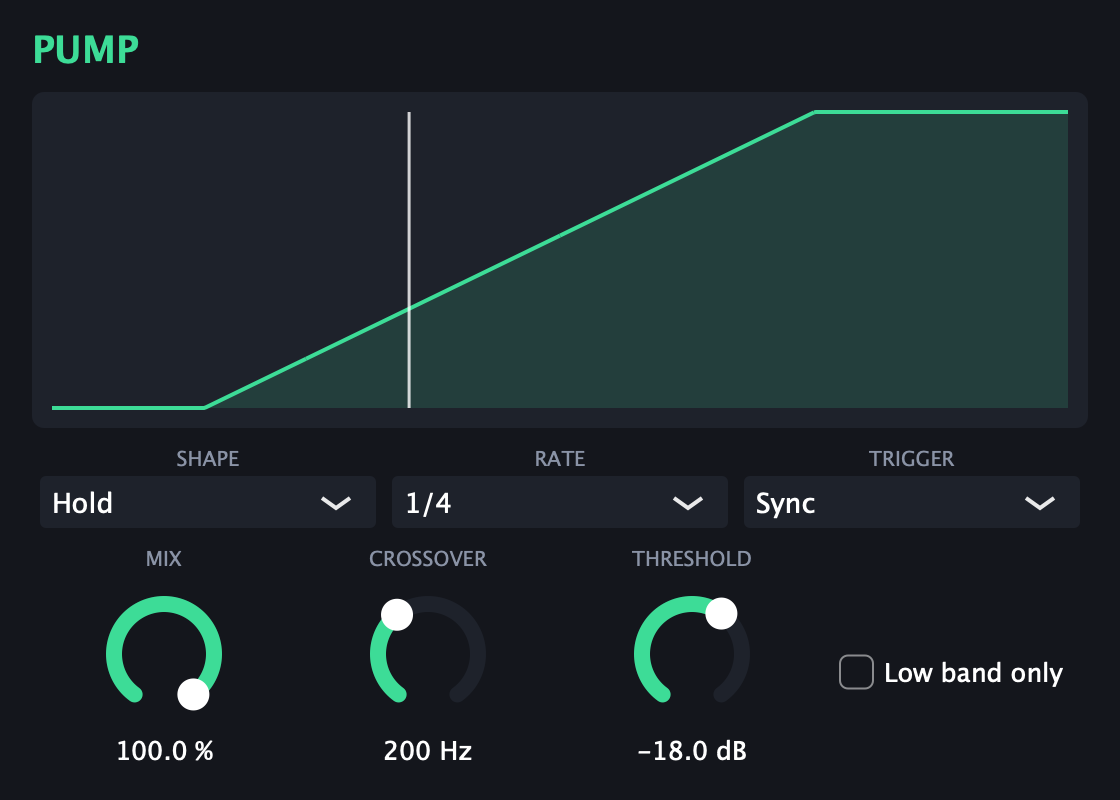
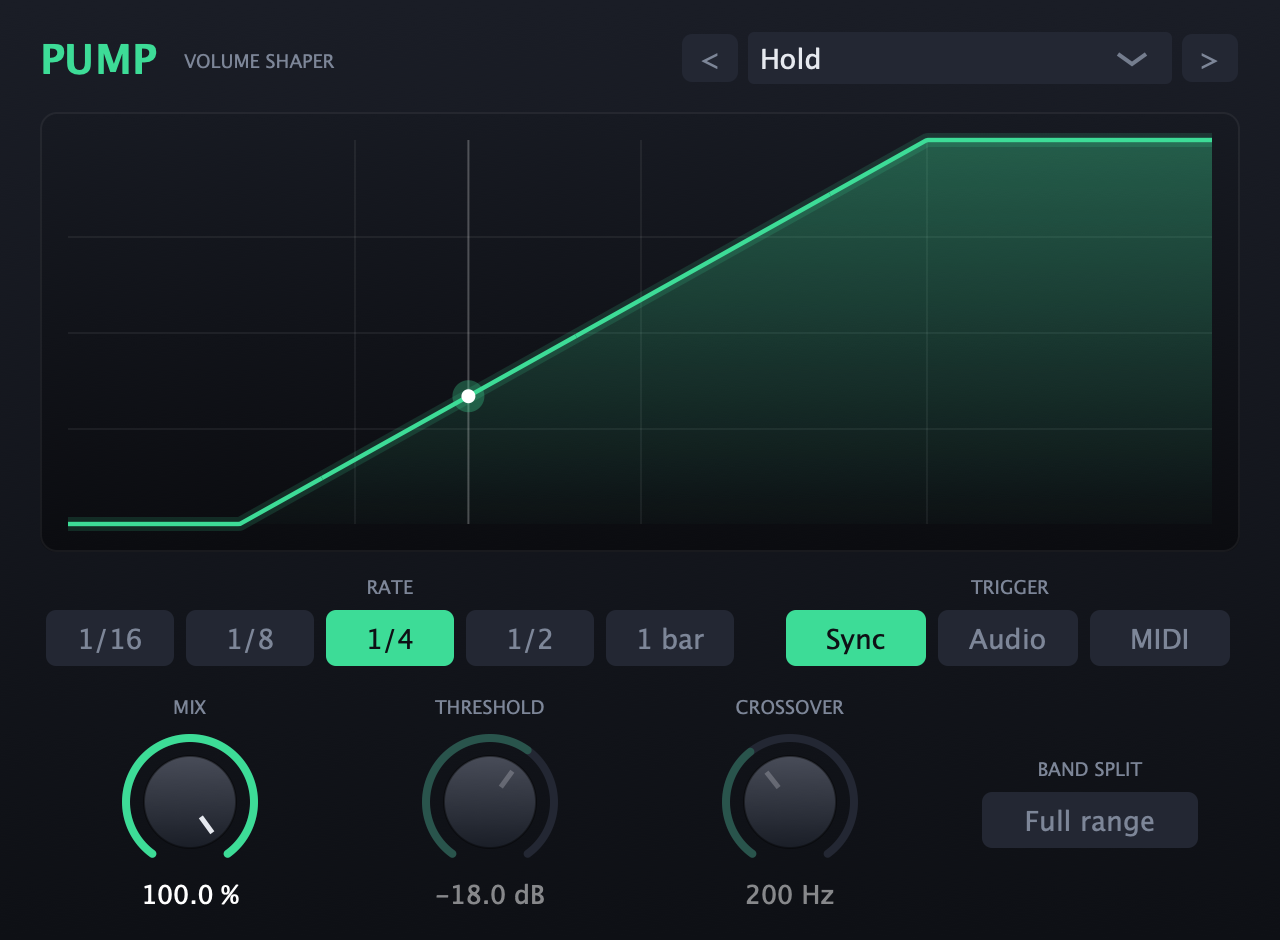
Redesign interface: custom knobs, gridded display, segmented controls, shape browser

diff --git a/Source/PluginProcessor.cpp b/Source/PluginProcessor.cpp
@@ -1,36 +1,133 @@
 #include "PumpProcessor.h"
 
+namespace
+{
+const juce::Colour bgTop { 0xff1a1d26 }, bgBottom { 0xff0e1015 }, panel { 0xff232733 }, panelHover { 0xff2d3240 },
+    screenTop { 0xff171a22 }, screenBottom { 0xff0b0c10 }, accent { 0xff3ddc97 }, text { 0xffe6e9ef }, dim { 0xff7d8698 };
+
+struct PumpLook : juce::LookAndFeel_V4
+{
+    PumpLook()
+    {
+        setColour (juce::Slider::textBoxTextColourId, text);
+        setColour (juce::Slider::textBoxOutlineColourId, juce::Colours::transparentBlack);
+        setColour (juce::ComboBox::backgroundColourId, panel);
+        setColour (juce::ComboBox::outlineColourId, juce::Colours::transparentBlack);
+        setColour (juce::ComboBox::textColourId, text);
+        setColour (juce::ComboBox::arrowColourId, dim);
+        setColour (juce::PopupMenu::backgroundColourId, panel);
+        setColour (juce::PopupMenu::textColourId, text);
+        setColour (juce::PopupMenu::highlightedBackgroundColourId, accent);
+        setColour (juce::PopupMenu::highlightedTextColourId, bgBottom);
+        setColour (juce::TextButton::textColourOffId, dim);
+        setColour (juce::TextButton::textColourOnId, bgBottom);
+    }
+
+    void drawRotarySlider (juce::Graphics& g, int x, int y, int width, int height, float position,
+                           float startAngle, float endAngle, juce::Slider& slider) override
+    {
+        const auto bounds = juce::Rectangle<int> (x, y, width, height).toFloat().reduced (5.0f);
+        const float radius = juce::jmin (bounds.getWidth(), bounds.getHeight()) / 2.0f;
+        const auto centre = bounds.getCentre();
+        const float angle = startAngle + position * (endAngle - startAngle);
+        const float alpha = slider.isEnabled() ? 1.0f : 0.25f;
+        const juce::PathStrokeType stroke (4.0f, juce::PathStrokeType::curved, juce::PathStrokeType::rounded);
+
+        juce::Path track, value;
+        track.addCentredArc (centre.x, centre.y, radius, radius, 0.0f, startAngle, endAngle, true);
+        value.addCentredArc (centre.x, centre.y, radius, radius, 0.0f, startAngle, angle, true);
+        g.setColour (panel);
+        g.strokePath (track, stroke);
+        g.setColour (accent.withAlpha (alpha));
+        g.strokePath (value, stroke);
+
+        const float knob = radius - 9.0f;
+        g.setGradientFill ({ panelHover.brighter (0.15f), centre.x, centre.y - knob, panel.darker (0.3f), centre.x, centre.y + knob, false });
+        g.fillEllipse (juce::Rectangle<float> (knob * 2.0f, knob * 2.0f).withCentre (centre));
+        g.setColour (juce::Colours::black.withAlpha (0.4f));
+        g.drawEllipse (juce::Rectangle<float> (knob * 2.0f, knob * 2.0f).withCentre (centre), 1.0f);
+
+        g.setColour (text.withAlpha (alpha));
+        g.drawLine ({ centre.getPointOnCircumference (knob * 0.4f, angle), centre.getPointOnCircumference (knob - 4.0f, angle) }, 2.5f);
+    }
+
+    void drawButtonBackground (juce::Graphics& g, juce::Button& button, const juce::Colour&, bool over, bool) override
+    {
+        g.setColour (button.getToggleState() ? accent : over ? panelHover : panel);
+        g.fillRoundedRectangle (button.getLocalBounds().toFloat().reduced (1.0f), 5.0f);
+    }
+};
+
+// A row of buttons bound to a choice parameter; exactly one is lit.
+class Segmented : public juce::Component
+{
+public:
+    explicit Segmented (juce::RangedAudioParameter& param)
+        : attachment (param, [this] (float value)
+                      {
+                          if (auto* b = buttons[(int) value])
+                              b->setToggleState (true, juce::dontSendNotification);
+                      })
+    {
+        const auto names = param.getAllValueStrings();
+        for (int i = 0; i < names.size(); ++i)
+        {
+            auto* b = buttons.add (new juce::TextButton (names[i]));
+            b->setClickingTogglesState (true);
+            b->setRadioGroupId (1);
+            b->onClick = [this, i, b]
+            {
+                if (b->getToggleState())
+                    attachment.setValueAsCompleteGesture ((float) i);
+            };
+            addAndMakeVisible (b);
+        }
+        attachment.sendInitialUpdate();
+    }
+
+    void resized() override
+    {
+        auto area = getLocalBounds();
+        const int width = area.getWidth() / juce::jmax (1, buttons.size());
+        for (auto* b : buttons)
+            b->setBounds (area.removeFromLeft (width).reduced (2, 0));
+    }
+
+private:
+    juce::OwnedArray<juce::TextButton> buttons;
+    juce::ParameterAttachment attachment; // after buttons: its callback uses them
+};
+}
+
 //==============================================================================
 class PumpEditor : public juce::AudioProcessorEditor, private juce::Timer
 {
     using APVTS = juce::AudioProcessorValueTreeState;
-    const juce::Colour bg { 0xff14161c }, panel { 0xff1e222b }, accent { 0xff3ddc97 }, dim { 0xff8a93a6 };
 
 public:
-    explicit PumpEditor (PumpProcessor& p) : AudioProcessorEditor (p), proc (p)
+    explicit PumpEditor (PumpProcessor& p)
+        : AudioProcessorEditor (p), proc (p),
+          rate (*p.params.getParameter ("rate")), trigger (*p.params.getParameter ("trigger"))
     {
-        laf.setColour (juce::Slider::rotarySliderFillColourId, accent);
-        laf.setColour (juce::Slider::rotarySliderOutlineColourId, panel);
-        laf.setColour (juce::Slider::thumbColourId, juce::Colours::white);
-        laf.setColour (juce::ComboBox::backgroundColourId, panel);
-        laf.setColour (juce::ComboBox::outlineColourId, juce::Colours::transparentBlack);
-        laf.setColour (juce::PopupMenu::backgroundColourId, panel);
-        laf.setColour (juce::PopupMenu::highlightedBackgroundColourId, accent.withAlpha (0.3f));
-        laf.setColour (juce::ToggleButton::tickColourId, accent);
-        setLookAndFeel (&laf);
+        setLookAndFeel (&look);
 
-        addCombo (shape, "shape");
-        addCombo (rate, "rate");
-        addCombo (trigger, "trigger");
+        shape.addItemList (p.params.getParameter ("shape")->getAllValueStrings(), 1);
+        shapeLink = std::make_unique<APVTS::ComboBoxAttachment> (p.params, "shape", shape);
+        previous.onClick = [this] { stepShape (-1); };
+        next.onClick = [this] { stepShape (1); };
+
         addKnob (mix, "mix", " %");
-        addKnob (xover, "xover", " Hz");
         addKnob (thresh, "thresh", " dB");
+        addKnob (xover, "xover", " Hz");
 
-        band.setButtonText ("Low band only");
-        addAndMakeVisible (band);
-        buttonLinks.add (new APVTS::ButtonAttachment (proc.params, "band", band));
+        band.setClickingTogglesState (true);
+        bandLink = std::make_unique<APVTS::ButtonAttachment> (p.params, "band", band);
 
-        setSize (560, 400);
+        for (auto* c : std::initializer_list<juce::Component*> { &shape, &previous, &next, &rate, &trigger, &band })
+            addAndMakeVisible (c);
+
+        setSize (640, 470);
+        timerCallback();
         startTimerHz (30);
     }
 
@@ -38,88 +135,115 @@ public:
 
     void paint (juce::Graphics& g) override
     {
-        g.fillAll (bg);
+        g.setGradientFill ({ bgTop, 0.0f, 0.0f, bgBottom, 0.0f, (float) getHeight(), false });
+        g.fillAll();
+
         g.setColour (accent);
-        g.setFont (juce::FontOptions (22.0f, juce::Font::bold));
-        g.drawText ("PUMP", 16, 10, 200, 28, juce::Justification::centredLeft);
+        g.setFont (juce::FontOptions (24.0f, juce::Font::bold));
+        g.drawText ("PUMP", 20, 14, 90, 30, juce::Justification::centredLeft);
+        g.setColour (dim);
+        g.setFont (juce::FontOptions (11.0f));
+        g.drawText ("VOLUME SHAPER", 92, 20, 140, 20, juce::Justification::centredLeft);
 
-        // Curve display: the current shape at the current mix, with a moving playhead
-        const auto d = display.toFloat();
-        g.setColour (panel);
-        g.fillRoundedRectangle (d, 6.0f);
-
-        const int shapeIndex = shape.getSelectedItemIndex();
-        const float mixNow = (float) mix.getValue() / 100.0f;
-        const auto inner = d.reduced (10.0f);
-        juce::Path curve;
-        for (float x = 0.0f; x <= inner.getWidth(); x += 1.0f)
-        {
-            // stop just short of 1.0, which means "cycle finished"
-            const float gain = duckGain (shapeIndex, 0.999f * x / inner.getWidth(), mixNow);
-            const float y = inner.getBottom() - gain * inner.getHeight();
-            if (x == 0.0f)
-                curve.startNewSubPath (inner.getX(), y);
-            else
-                curve.lineTo (inner.getX() + x, y);
-        }
-        g.setColour (accent);
-        g.strokePath (curve, juce::PathStrokeType (2.0f));
-        curve.lineTo (inner.getRight(), inner.getBottom());
-        curve.lineTo (inner.getX(), inner.getBottom());
-        curve.closeSubPath();
-        g.setColour (accent.withAlpha (0.15f));
-        g.fillPath (curve);
-
-        if (const float phase = proc.displayPhase.load(); phase >= 0.0f && phase < 1.0f)
-        {
-            g.setColour (juce::Colours::white.withAlpha (0.8f));
-            g.fillRect (inner.getX() + phase * inner.getWidth(), inner.getY(), 1.5f, inner.getHeight());
-        }
+        paintScreen (g);
 
         g.setColour (dim);
-        g.setFont (juce::FontOptions (12.0f));
-        for (auto [component, text] : { std::pair<juce::Component*, const char*> { &shape, "SHAPE" }, { &rate, "RATE" }, { &trigger, "TRIGGER" },
-                                        { &mix, "MIX" }, { &xover, "CROSSOVER" }, { &thresh, "THRESHOLD" } })
-            g.drawText (text, component->getX(), component->getY() - 16, component->getWidth(), 14, juce::Justification::centred);
+        g.setFont (juce::FontOptions (11.0f));
+        for (auto [component, label] : { std::pair<juce::Component*, const char*> { &rate, "RATE" }, { &trigger, "TRIGGER" },
+                                         { &mix, "MIX" }, { &thresh, "THRESHOLD" }, { &xover, "CROSSOVER" }, { &band, "BAND SPLIT" } })
+            g.drawText (label, component->getX(), component->getY() - 18, component->getWidth(), 14, juce::Justification::centred);
     }
 
     void resized() override
     {
-        auto area = getLocalBounds().reduced (16);
-        area.removeFromTop (30);
+        auto area = getLocalBounds().reduced (20, 14);
 
-        auto knobs = area.removeFromBottom (96);
-        const int knobWidth = knobs.getWidth() / 4;
-        mix.setBounds (knobs.removeFromLeft (knobWidth));
-        xover.setBounds (knobs.removeFromLeft (knobWidth));
-        thresh.setBounds (knobs.removeFromLeft (knobWidth));
-        band.setBounds (knobs.withSizeKeepingCentre (knobs.getWidth() - 8, 24));
+        auto header = area.removeFromTop (30).removeFromRight (280);
+        previous.setBounds (header.removeFromLeft (30).reduced (0, 2));
+        next.setBounds (header.removeFromRight (30).reduced (0, 2));
+        shape.setBounds (header.reduced (4, 2));
 
-        area.removeFromBottom (24);
-        auto combos = area.removeFromBottom (26);
-        const int comboWidth = combos.getWidth() / 3;
-        shape.setBounds (combos.removeFromLeft (comboWidth).reduced (4, 0));
-        rate.setBounds (combos.removeFromLeft (comboWidth).reduced (4, 0));
-        trigger.setBounds (combos.reduced (4, 0));
+        auto knobs = area.removeFromBottom (92);
+        const int column = knobs.getWidth() / 4;
+        mix.setBounds (knobs.removeFromLeft (column));
+        thresh.setBounds (knobs.removeFromLeft (column));
+        xover.setBounds (knobs.removeFromLeft (column));
+        band.setBounds (knobs.withSizeKeepingCentre (110, 30));
 
-        area.removeFromBottom (24);
-        display = area;
+        area.removeFromBottom (30);
+        auto row = area.removeFromBottom (30);
+        rate.setBounds (row.removeFromLeft (row.getWidth() * 3 / 5).withTrimmedRight (10));
+        trigger.setBounds (row.withTrimmedLeft (10));
+
+        area.removeFromBottom (28);
+        screen = area.withTrimmedTop (12);
     }
 
 private:
+    // The display: grid, the current shape at the current mix, and a playhead riding the curve
+    void paintScreen (juce::Graphics& g)
+    {
+        const auto frame = screen.toFloat();
+        g.setGradientFill ({ screenTop, 0.0f, frame.getY(), screenBottom, 0.0f, frame.getBottom(), false });
+        g.fillRoundedRectangle (frame, 8.0f);
+        g.setColour (juce::Colours::white.withAlpha (0.06f));
+        g.drawRoundedRectangle (frame.reduced (0.5f), 8.0f, 1.0f);
+
+        const auto plot = frame.reduced (14.0f);
+        for (int i = 1; i < 4; ++i)
+        {
+            g.fillRect (plot.getX() + plot.getWidth() * (float) i / 4.0f, plot.getY(), 1.0f, plot.getHeight());
+            g.fillRect (plot.getX(), plot.getY() + plot.getHeight() * (float) i / 4.0f, plot.getWidth(), 1.0f);
+        }
+
+        const int shapeIndex = shape.getSelectedItemIndex();
+        const float mixNow = (float) mix.getValue() / 100.0f;
+        // stop just short of phase 1.0, which means "cycle finished"
+        const auto yAt = [&] (float phase) { return plot.getBottom() - duckGain (shapeIndex, 0.999f * phase, mixNow) * plot.getHeight(); };
+
+        juce::Path curve;
+        curve.startNewSubPath (plot.getX(), yAt (0.0f));
+        for (float x = 1.0f; x <= plot.getWidth(); x += 1.0f)
+            curve.lineTo (plot.getX() + x, yAt (x / plot.getWidth()));
+
+        juce::Path fill (curve);
+        fill.lineTo (plot.getRight(), plot.getBottom());
+        fill.lineTo (plot.getX(), plot.getBottom());
+        fill.closeSubPath();
+        g.setGradientFill ({ accent.withAlpha (0.35f), 0.0f, plot.getY(), accent.withAlpha (0.02f), 0.0f, plot.getBottom(), false });
+        g.fillPath (fill);
+
+        const juce::PathStrokeType::JointStyle joint = juce::PathStrokeType::curved;
+        g.setColour (accent.withAlpha (0.15f)); // soft glow under the line
+        g.strokePath (curve, juce::PathStrokeType (7.0f, joint));
+        g.setColour (accent);
+        g.strokePath (curve, juce::PathStrokeType (2.2f, joint));
+
+        if (const float phase = proc.displayPhase.load(); phase >= 0.0f && phase < 1.0f)
+        {
+            const juce::Point<float> dot (plot.getX() + phase * plot.getWidth(), yAt (phase));
+            g.setColour (juce::Colours::white.withAlpha (0.25f));
+            g.fillRect (dot.x - 0.5f, plot.getY(), 1.0f, plot.getHeight());
+            g.setColour (accent.withAlpha (0.3f));
+            g.fillEllipse (juce::Rectangle<float> (16.0f, 16.0f).withCentre (dot));
+            g.setColour (juce::Colours::white);
+            g.fillEllipse (juce::Rectangle<float> (7.0f, 7.0f).withCentre (dot));
+        }
+    }
+
     void timerCallback() override
     {
         xover.setEnabled (band.getToggleState());
-        thresh.setEnabled (trigger.getSelectedItemIndex() == audio);
-        repaint (display);
+        thresh.setEnabled ((int) proc.params.getRawParameterValue ("trigger")->load() == audio);
+        band.setButtonText (band.getToggleState() ? "Low only" : "Full range");
+        repaint (screen);
     }
 
-    void addCombo (juce::ComboBox& box, const char* id)
+    void stepShape (int direction)
     {
-        if (auto* choice = dynamic_cast<juce::AudioParameterChoice*> (proc.params.getParameter (id)))
-            box.addItemList (choice->choices, 1);
-        addAndMakeVisible (box);
-        comboLinks.add (new APVTS::ComboBoxAttachment (proc.params, id, box));
+        const int count = shape.getNumItems();
+        if (count > 0)
+            shape.setSelectedItemIndex ((shape.getSelectedItemIndex() + direction + count) % count);
     }
 
     void addKnob (juce::Slider& knob, const char* id, const char* suffix)
@@ -128,20 +252,21 @@ private:
         knob.setTextBoxStyle (juce::Slider::TextBoxBelow, false, 80, 18);
         knob.setColour (juce::Slider::textBoxOutlineColourId, juce::Colours::transparentBlack);
         addAndMakeVisible (knob);
-        sliderLinks.add (new APVTS::SliderAttachment (proc.params, id, knob));
+        knobLinks.add (new APVTS::SliderAttachment (proc.params, id, knob));
         knob.setTextValueSuffix (suffix);
     }
 
     PumpProcessor& proc;
-    juce::LookAndFeel_V4 laf;
-    juce::ComboBox shape, rate, trigger;
-    juce::Slider mix, xover, thresh;
-    juce::ToggleButton band;
-    juce::Rectangle<int> display;
-    // Declared after the controls so the attachments are destroyed first
-    juce::OwnedArray<APVTS::ComboBoxAttachment> comboLinks;
-    juce::OwnedArray<APVTS::SliderAttachment> sliderLinks;
-    juce::OwnedArray<APVTS::ButtonAttachment> buttonLinks;
+    PumpLook look; // before the controls, so it outlives them
+    juce::ComboBox shape;
+    juce::TextButton previous { "<" }, next { ">" }, band;
+    Segmented rate, trigger;
+    juce::Slider mix, thresh, xover;
+    juce::Rectangle<int> screen;
+    // After the controls, so the attachments are destroyed first
+    std::unique_ptr<APVTS::ComboBoxAttachment> shapeLink;
+    std::unique_ptr<APVTS::ButtonAttachment> bandLink;
+    juce::OwnedArray<APVTS::SliderAttachment> knobLinks;
 };
 
 juce::AudioProcessorEditor* PumpProcessor::createEditor() { return new PumpEditor (*this); }

diff --git a/README.md b/README.md
@@ -11,7 +11,7 @@ VST3 for Windows and macOS (Intel + Apple Silicon).
 - **16 shapes** — from a classic duck to gates, holds, double and triplet pumps
 - **Rates** — 1/16, 1/8, 1/4, 1/2, 1 bar, locked to the host tempo and song position
 - **Three triggers** — tempo sync, audio (sidechain input), or MIDI notes
-- **Low band only** — duck just the bass below an adjustable crossover and leave the top end alone
+- **Band split** — duck just the bass below an adjustable crossover and leave the top end alone
 - **Mix** — from subtle to full duck
 - Live curve display with playhead
 
@@ -32,12 +32,12 @@ To uninstall, delete `Pump.vst3` from `C:\Program Files\Common Files\VST3\` (Win
 
 | Control | What it does |
 |---|---|
-| Shape | The ducking curve |
+| Shape | The ducking curve; browse with the arrows or the menu |
 | Rate | Length of one cycle |
 | Trigger | **Sync** repeats with the tempo. **Audio** and **MIDI** play the shape once per hit |
 | Mix | How deep the duck goes |
-| Low band only | Duck only what's below the crossover |
-| Crossover | Split frequency for low band only (40–2000 Hz) |
+| Band split | **Full range** ducks everything; **Low only** ducks what's below the crossover |
+| Crossover | Split frequency for band split (40–2000 Hz) |
 | Threshold | How loud the sidechain must be to trigger (Audio mode) |
 
 ### Triggering in FL Studio
@@ -66,7 +66,7 @@ The plugin lands in `build/Pump_artefacts/Release/VST3/`.
 ## Release
 
 ```bash
-git tag v1.1.0 && git push --tags
+git tag v1.2.0 && git push --tags
 ```
 
 GitHub Actions builds, tests, and attaches both installers to a new release.
